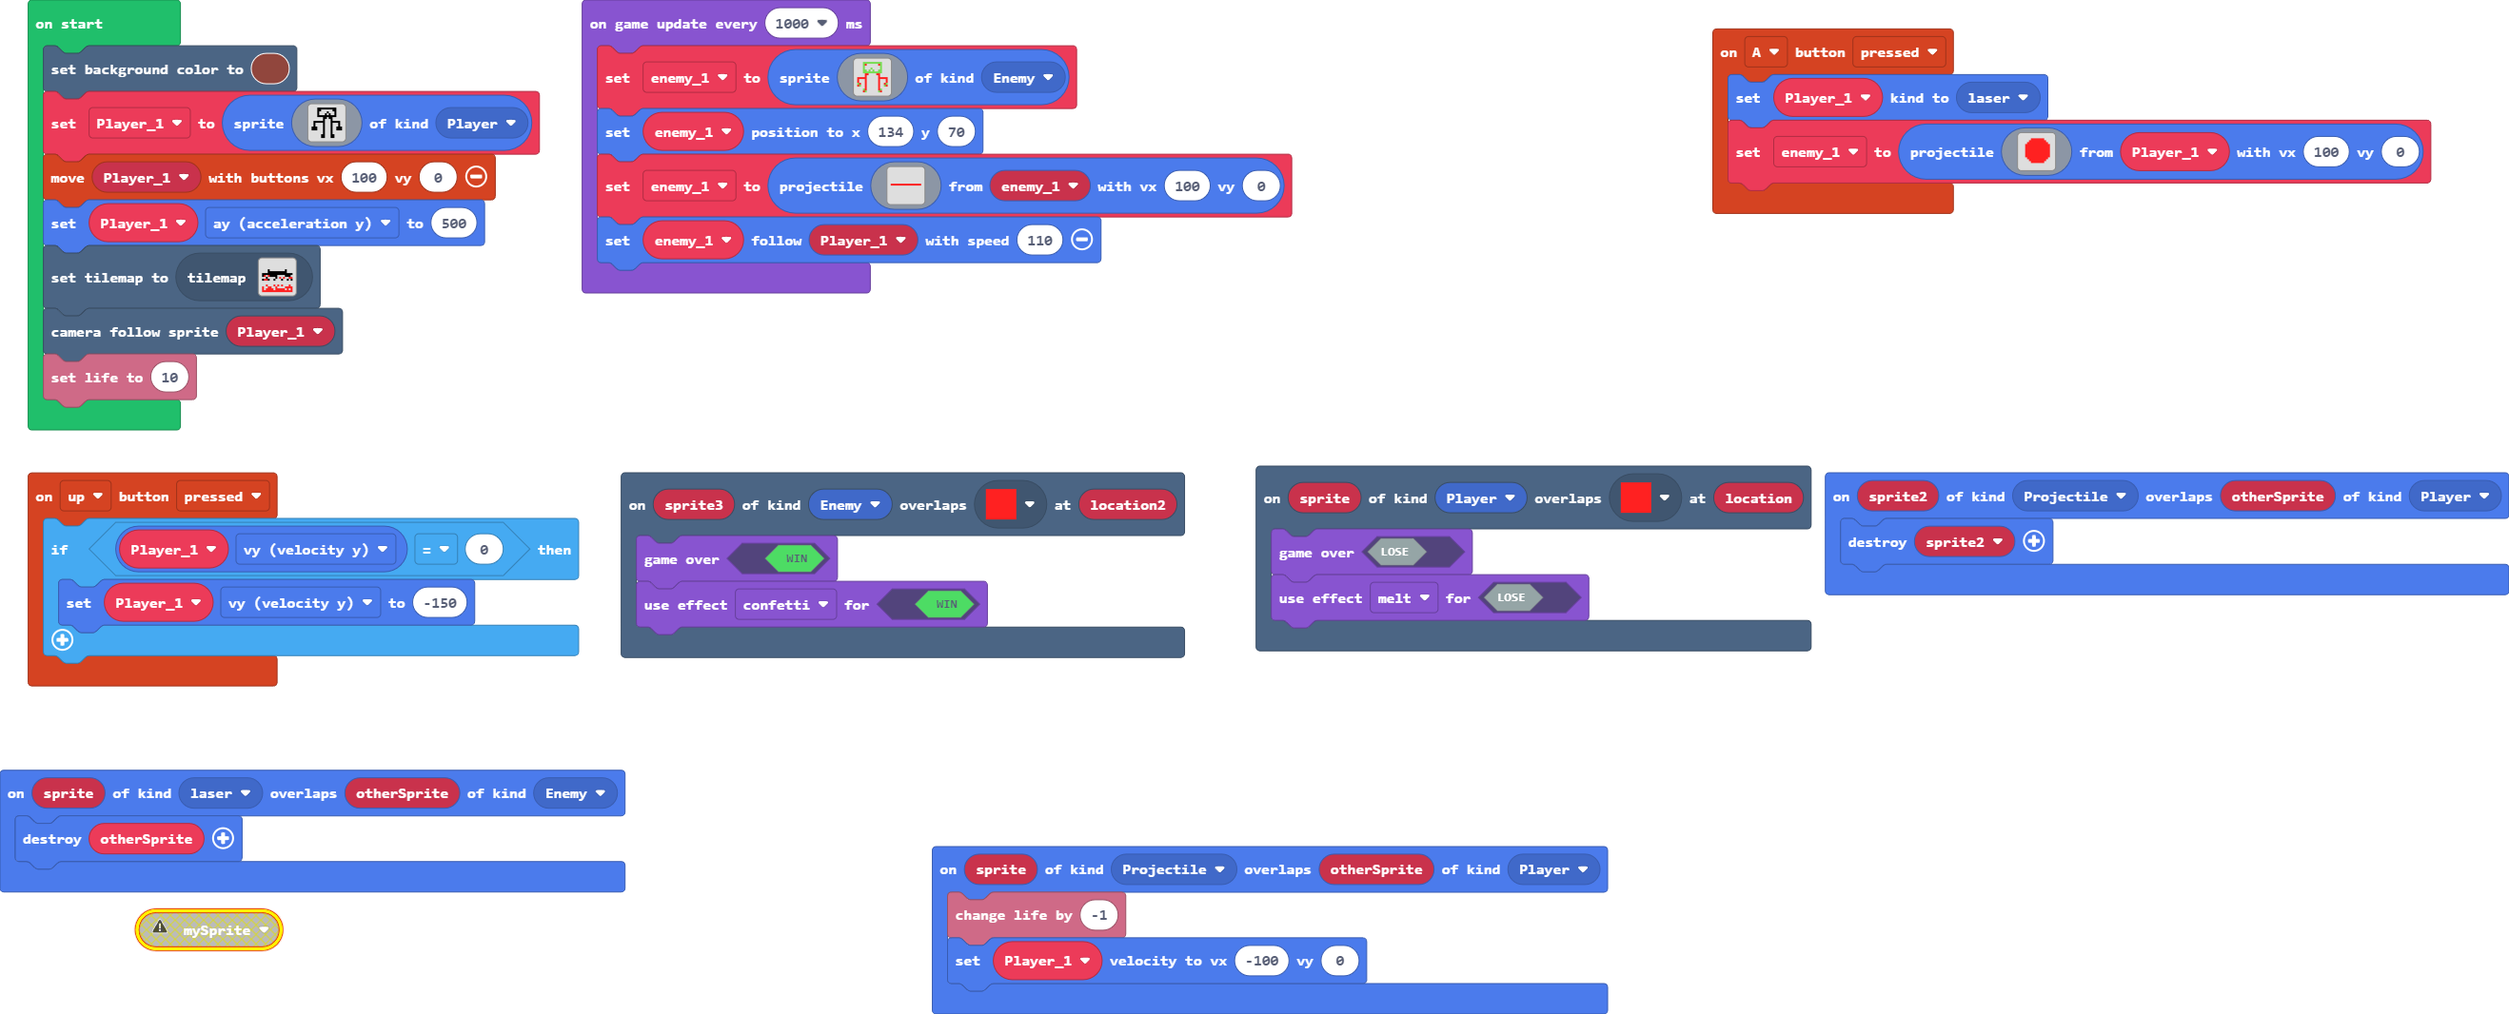
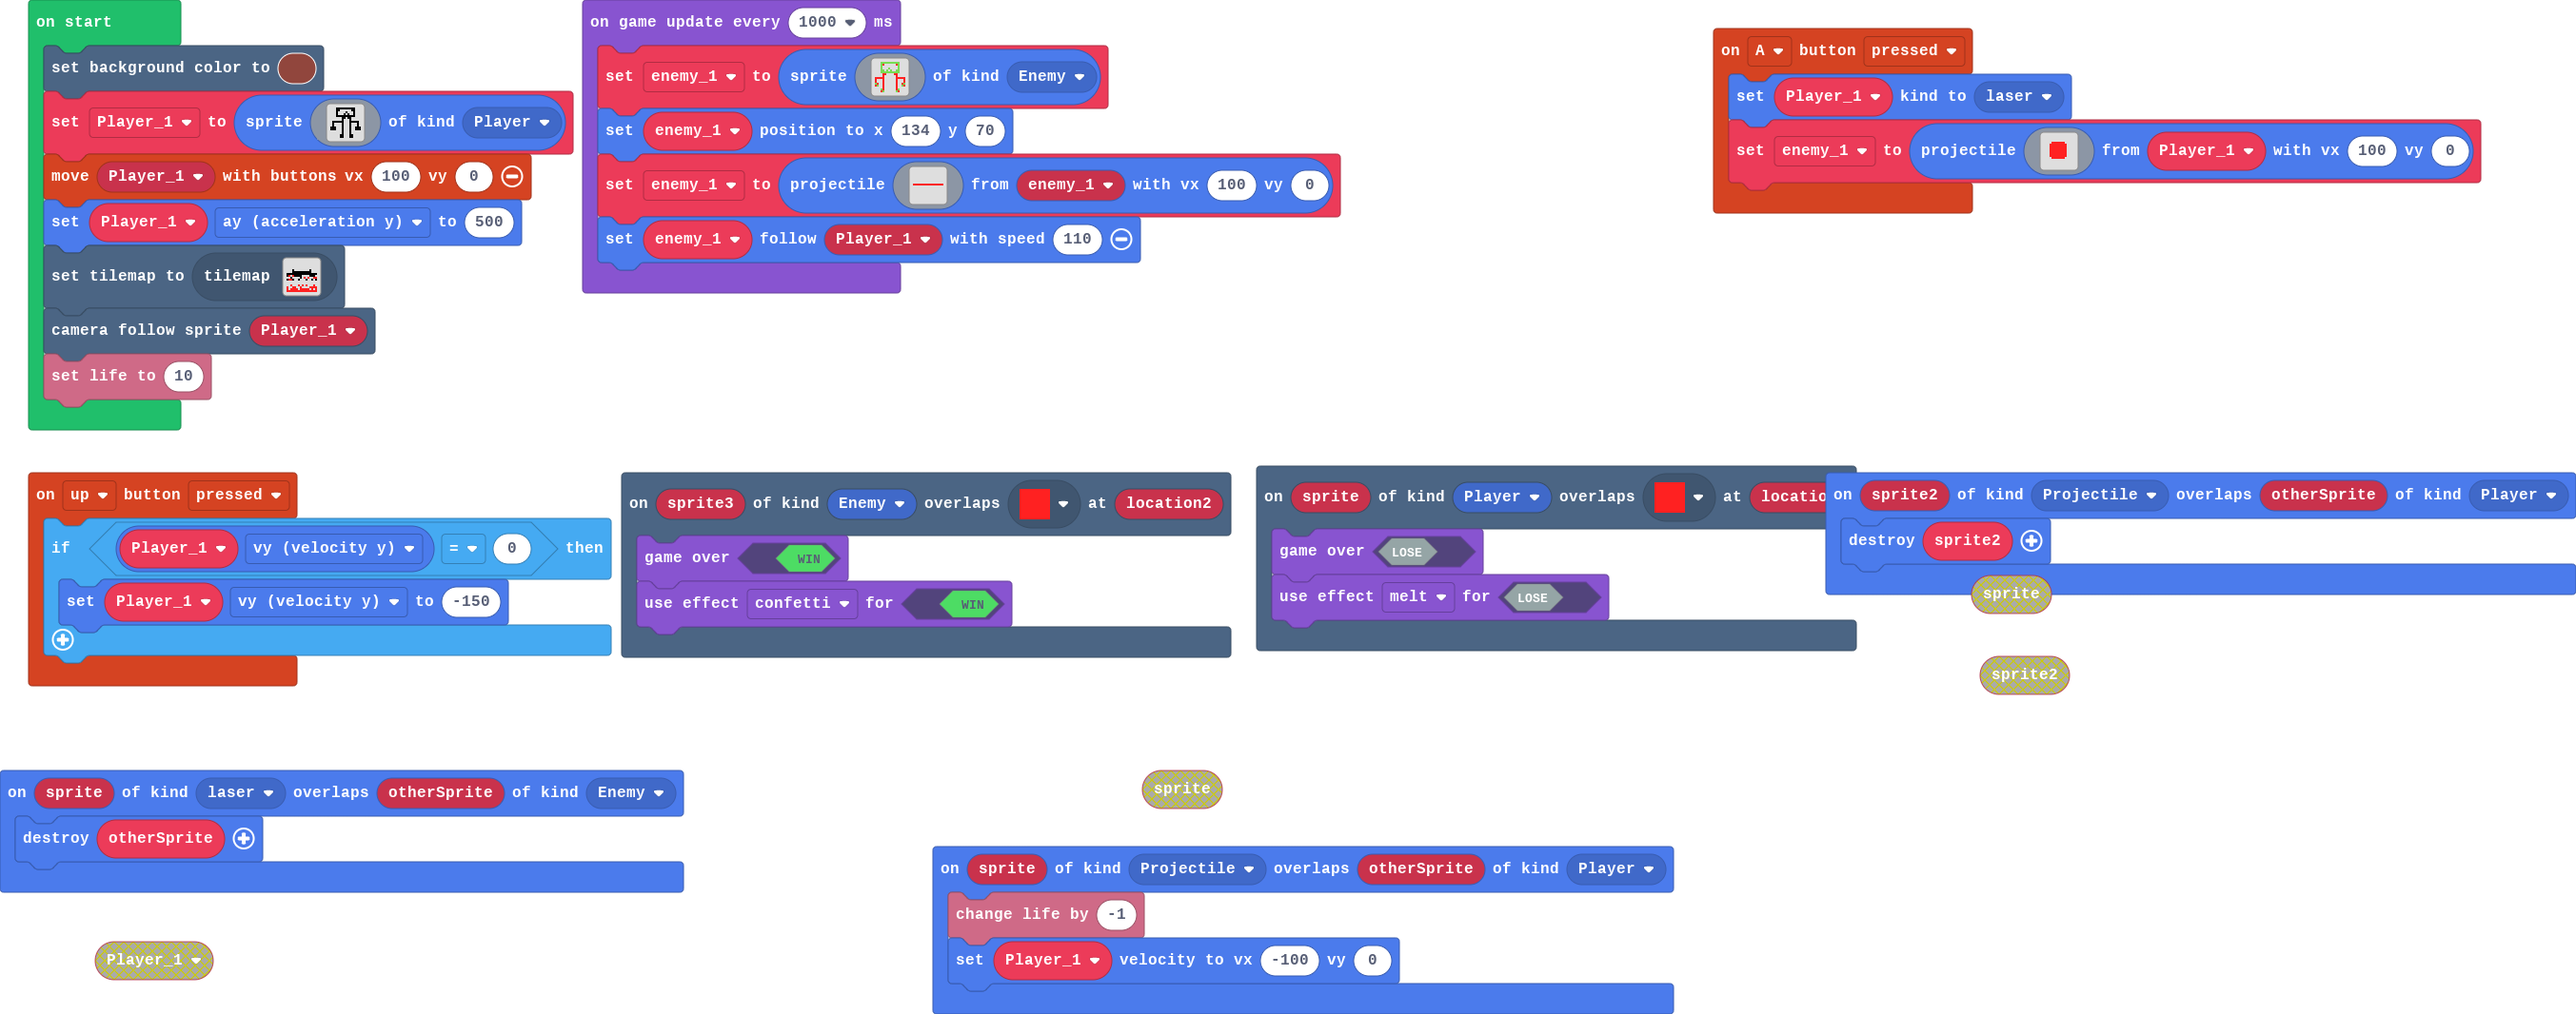
Update main.blocks, main.ts

diff --git a/main.ts b/main.ts
@@ -18,19 +18,19 @@ controller.A.onEvent(ControllerButtonEvent.Pressed, function () {
     Player_1.setKind(SpriteKind.laser)
     enemy_1 = sprites.createProjectileFromSprite(img`
         . . . . . . . . . . . . . . . . 
-        . . . . . 2 2 2 2 2 2 2 . . . . 
-        . . . . 2 2 2 2 2 2 2 2 2 . . . 
-        . . . 2 2 2 2 2 2 2 2 2 2 2 . . 
-        . . 2 2 2 2 2 2 2 2 2 2 2 2 2 . 
-        . . 2 2 2 2 2 2 2 2 2 2 2 2 2 . 
-        . . 2 2 2 2 2 2 2 2 2 2 2 2 2 . 
-        . . 2 2 2 2 2 2 2 2 2 2 2 2 2 . 
-        . . 2 2 2 2 2 2 2 2 2 2 2 2 2 . 
-        . . 2 2 2 2 2 2 2 2 2 2 2 2 2 . 
-        . . 2 2 2 2 2 2 2 2 2 2 2 2 2 . 
-        . . . 2 2 2 2 2 2 2 2 2 2 2 . . 
-        . . . . 2 2 2 2 2 2 2 2 2 . . . 
-        . . . . . 2 2 2 2 2 2 2 . . . . 
+        . . . . . . . . . . . . . . . . 
+        . . . . . . . . . . . . . . . . 
+        . . . . 2 2 2 2 2 2 2 . . . . . 
+        . . . 2 2 2 2 2 2 2 2 2 . . . . 
+        . . . 2 2 2 2 2 2 2 2 2 . . . . 
+        . . . 2 2 2 2 2 2 2 2 2 . . . . 
+        . . . 2 2 2 2 2 2 2 2 2 . . . . 
+        . . . 2 2 2 2 2 2 2 2 2 . . . . 
+        . . . 2 2 2 2 2 2 2 2 2 . . . . 
+        . . . 2 2 2 2 2 2 2 2 2 . . . . 
+        . . . . 2 2 2 2 2 2 2 . . . . . 
+        . . . . . . . . . . . . . . . . 
+        . . . . . . . . . . . . . . . . 
         . . . . . . . . . . . . . . . . 
         . . . . . . . . . . . . . . . . 
         `, Player_1, 100, 0)
